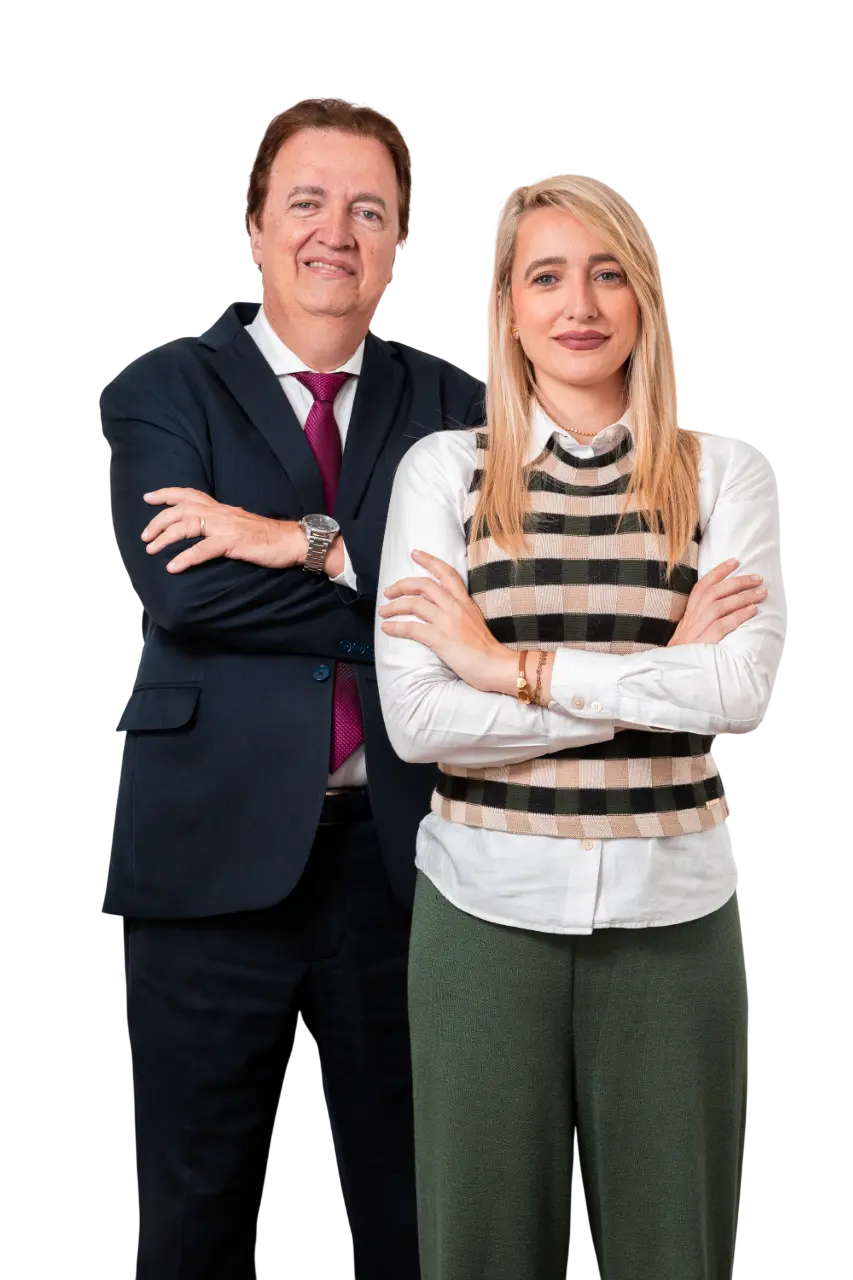
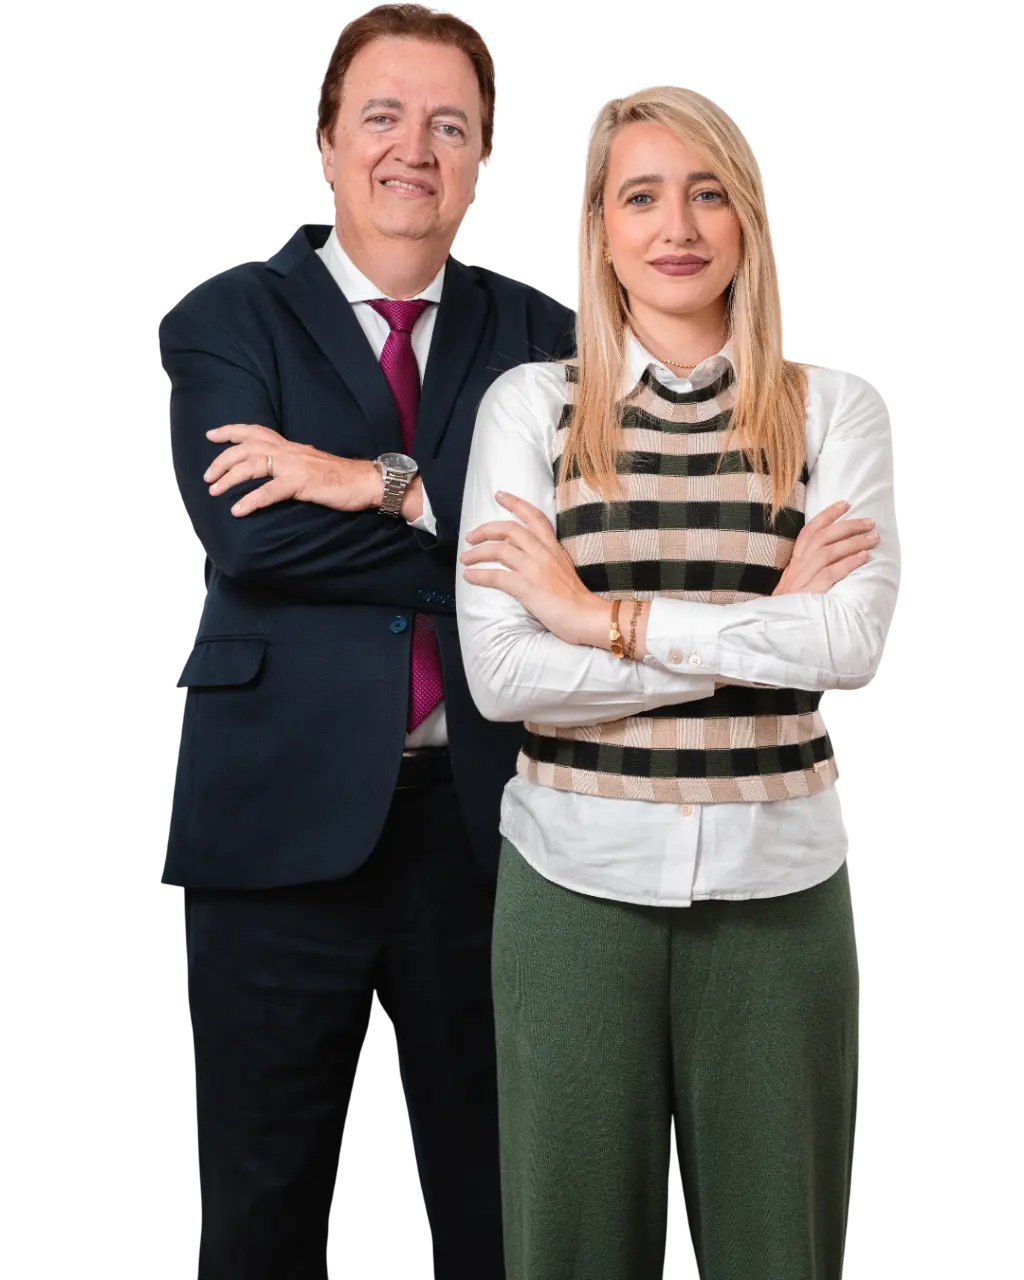
style: ajustes finos finais em margens no mobile, resize da imagem e SVG marca d'água no fundo da hero

diff --git a/src/app/(marketing)/page.tsx b/src/app/(marketing)/page.tsx
@@ -17,9 +17,21 @@ export default function Home() {
       <MinimalNavbar />
 
       {/* 1. HERO SECTION (Split Layout) */}
-      <section className="relative w-full lg:min-h-[100svh] flex flex-col lg:flex-row bg-primary text-primary-foreground overflow-hidden pt-20 md:pt-24 lg:pt-0 pb-0">
+      <section className="relative w-full lg:min-h-[100svh] flex flex-col lg:flex-row bg-primary text-primary-foreground overflow-hidden pt-12 md:pt-16 lg:pt-0 pb-0">
         {/* Subtle Gradient Overlay */}
         <div className="absolute inset-0 bg-gradient-to-b from-black/30 via-transparent to-black/30 pointer-events-none z-0"></div>
+
+        {/* Background Decorative SVG Watermark behind the lawyers */}
+        <div className="absolute top-[40%] lg:top-[50%] right-[-10%] lg:right-[-5%] -translate-y-[45%] lg:-translate-y-1/2 w-[120%] md:w-[80%] lg:w-[60%] xl:w-[50%] h-auto opacity-[0.10] lg:opacity-[0.15] pointer-events-none brightness-0 z-0">
+          <Image
+            src="/simbolo-gioia.svg"
+            alt="Símbolo Gioia Background"
+            width={1200}
+            height={1200}
+            className="w-full h-full object-contain"
+            priority={false}
+          />
+        </div>
 
         {/* Background Graphics (Discrete Symbol Texture) */}
         <div className="absolute -left-[10%] lg:-left-[5%] top-[50%] lg:top-[80%] -translate-y-1/2 opacity-[0.10] lg:opacity-[0.15] pointer-events-none brightness-0 z-0">
@@ -36,9 +48,9 @@ export default function Home() {
         <div className="relative z-10 w-full max-w-[1400px] mx-auto flex flex-col lg:flex-row items-center lg:items-stretch justify-between px-6 md:px-12 lg:px-24 min-h-screen lg:min-h-0 lg:h-screen">
 
           {/* Left Column: Text Content */}
-          <div className="w-full lg:w-3/5 xl:w-[50%] flex flex-col items-center text-center lg:items-start lg:text-left gap-4 md:gap-7 pt-2 pb-10 lg:pb-0 lg:pt-12 xl:pt-16 z-20">
+          <div className="w-full lg:w-3/5 xl:w-[50%] flex flex-col items-center text-center lg:items-start lg:text-left gap-4 md:gap-7 pb-2 lg:pb-0 pt-0 md:pt-4 lg:pt-12 xl:pt-16 z-20">
             {/* Official Logo (Small) */}
-            <div className="w-24 md:w-32 lg:w-36 xl:w-40 mb-0 lg:mb-2">
+            <div className="w-32 md:w-36 lg:w-36 xl:w-40 mb-1 lg:mb-2 mt-4 lg:mt-0">
               <Image
                 src="/logo-gioia.svg"
                 alt="Gioia e Associados"
@@ -75,8 +87,8 @@ export default function Home() {
           </div>
 
           {/* Right Column: Hero Image - Solta e Menor */}
-          <div className="w-full lg:w-2/5 xl:w-[55%] flex justify-center lg:justify-end items-end z-10 pointer-events-none lg:absolute lg:right-0 lg:bottom-0 lg:h-[85vh] xl:pr-12 relative h-[60vh] md:h-[65vh]">
-            <div className="relative w-full max-w-[420px] md:max-w-[480px] lg:max-w-[550px] xl:max-w-[650px] h-full">
+          <div className="w-full lg:w-2/5 xl:w-[55%] flex justify-center lg:justify-end items-end z-10 pointer-events-none lg:absolute lg:-right-4 xl:-right-8 lg:bottom-0 lg:h-[80vh] xl:h-[85vh] relative h-[65vh] md:h-[70vh] -mt-8 md:-mt-16 lg:mt-0">
+            <div className="relative w-full max-w-[500px] md:max-w-[600px] lg:max-w-[550px] xl:max-w-[700px] h-full">
               <Image
                 src="/gioia-hero-1.webp"
                 alt="Pai e filha sorrindo, representando a proteção da família e dignidade"

diff --git a/src/components/layout/minimal-navbar.tsx b/src/components/layout/minimal-navbar.tsx
@@ -33,8 +33,8 @@ export function MinimalNavbar() {
         >
             {/* Left Side - Logo (Nav movida para Right Side) */}
             <div className="flex items-center gap-12">
-                {/* Logo - Escondido no Mobile para dar foco à Logo da Hero Section */}
-                <div className="hidden md:block pointer-events-auto hover:scale-105 transition-transform">
+                {/* Logo - Escondido no topo do Mobile, visível ao rolar a página */}
+                <div className={`${isScrolled ? "block" : "hidden md:block"} pointer-events-auto hover:scale-105 transition-transform`}>
                     <Link href="/" className="block">
                         <Image
                             src="/simbolo-gioia.svg"
